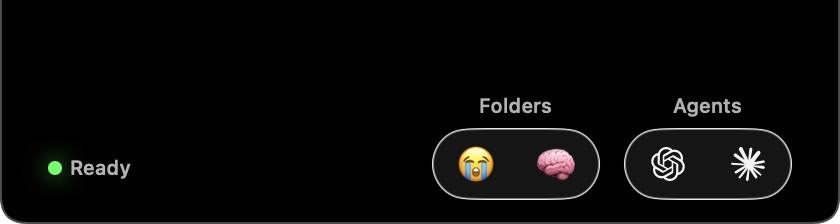
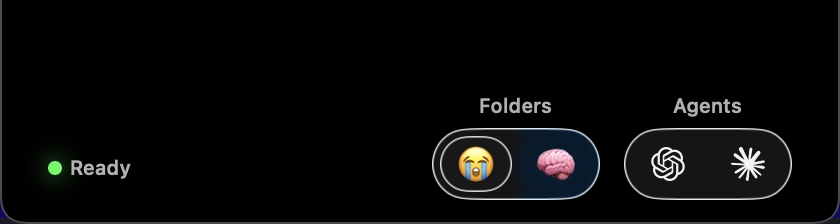
feat: refine glass capsule selection

diff --git a/GhostNotch/UI/IslandIndicatorView.swift b/GhostNotch/UI/IslandIndicatorView.swift
@@ -1,8 +1,12 @@
+import AppKit
 import SwiftUI
 
 struct IslandIndicatorView: View {
+    @Environment(\.accessibilityReduceMotion) private var reduceMotion
+    @Environment(\.accessibilityReduceTransparency) private var reduceTransparency
     @ObservedObject var sessionState: TerminalSessionState
     @ObservedObject var presetStore: AgentPresetStore
+    @Namespace private var directorySelectionNamespace
 
     let isHovering: Bool
     let selectedDirectoryPresetID: AgentLaunchDirectoryPreset.ID?
@@ -107,17 +111,7 @@ struct IslandIndicatorView: View {
                             .foregroundStyle(.secondary)
                             .frame(height: IslandMetrics.hoverControlLabelHeight)
 
-                        HStack(alignment: .center, spacing: 0) {
-                            ForEach(visibleDirectoryPresets) { preset in
-                                DirectoryPresetButton(
-                                    preset: preset,
-                                    isSelected: preset.id == selectedDirectoryPresetID
-                                ) {
-                                    onSelectDirectory(preset)
-                                }
-                            }
-                        }
-                        .notchCapsuleGroupStyle()
+                        directoryPresetControls
                     }
                 }
 
@@ -152,6 +146,75 @@ struct IslandIndicatorView: View {
                 .filter { $0.directoryExists() }
                 .prefix(AgentPresetStore.maximumDirectoryPresets)
         )
+    }
+
+    private var directoryPresetControls: some View {
+        ZStack {
+            if !reduceTransparency {
+                directorySelectionLayer(usesOpaqueGlass: false)
+                    .padding(IslandMetrics.notchCapsuleGroupInset)
+            }
+
+            HStack(alignment: .center, spacing: 0) {
+                ForEach(visibleDirectoryPresets) { preset in
+                    DirectoryPresetButton(preset: preset) {
+                        onSelectDirectory(preset)
+                    }
+                }
+            }
+            .background {
+                if reduceTransparency {
+                    directorySelectionLayer(usesOpaqueGlass: true)
+                }
+            }
+            .notchCapsuleGroupStyle()
+        }
+        .animation(directorySelectionAnimation, value: selectedDirectoryPresetID)
+    }
+
+    private func directorySelectionLayer(usesOpaqueGlass: Bool) -> some View {
+        HStack(spacing: 0) {
+            ForEach(visibleDirectoryPresets) { preset in
+                ZStack {
+                    if preset.id == selectedDirectoryPresetID {
+                        directorySelectionCapsule(usesOpaqueGlass: usesOpaqueGlass)
+                            .matchedGeometryEffect(
+                                id: usesOpaqueGlass ? "opaque-directory-selection" : "directory-selection",
+                                in: directorySelectionNamespace
+                            )
+                            .transition(directorySelectionTransition)
+                    }
+                }
+                .frame(
+                    width: IslandMetrics.notchControlWidth,
+                    height: IslandMetrics.notchControlHeight
+                )
+            }
+        }
+        .allowsHitTesting(false)
+    }
+
+    @ViewBuilder
+    private func directorySelectionCapsule(usesOpaqueGlass: Bool) -> some View {
+        if usesOpaqueGlass {
+            Color.clear
+                .glassEffect(
+                    .regular.tint(Color(nsColor: .systemBlue)),
+                    in: Capsule()
+                )
+                .clipShape(Capsule())
+        } else {
+            Capsule()
+                .fill(Color(nsColor: .systemBlue))
+        }
+    }
+
+    private var directorySelectionAnimation: Animation? {
+        reduceMotion ? nil : .snappy(duration: 0.18, extraBounce: 0.02)
+    }
+
+    private var directorySelectionTransition: AnyTransition {
+        .opacity.animation(.easeOut(duration: reduceMotion ? 0.08 : 0.12))
     }
 
     private var hoverStatus: some View {
@@ -190,7 +253,6 @@ struct IslandIndicatorView: View {
 
 private struct DirectoryPresetButton: View {
     let preset: AgentLaunchDirectoryPreset
-    let isSelected: Bool
     let action: () -> Void
 
     var body: some View {
@@ -204,7 +266,7 @@ private struct DirectoryPresetButton: View {
                 .contentShape(Capsule())
         }
         .frame(width: IslandMetrics.notchControlWidth, height: IslandMetrics.notchControlHeight)
-        .notchControlStyle(isSelected: isSelected)
+        .notchControlStyle()
         .accessibilityLabel("Use \(preset.displayLabel) folder")
         .help("\(preset.displayLabel) - \(preset.path)")
     }

diff --git a/GhostNotch/UI/IslandRootView.swift b/GhostNotch/UI/IslandRootView.swift
@@ -56,32 +56,32 @@ struct IslandRootView: View {
 }
 
 private struct NotchControlStyle: ViewModifier {
+    @Environment(\.accessibilityReduceMotion) private var reduceMotion
     @State private var isHovering = false
 
-    let isSelected: Bool
-
     func body(content: Content) -> some View {
-        Group {
-            if isSelected {
-                content
-                    .buttonStyle(.glassProminent)
-                    .buttonBorderShape(.capsule)
-            } else if isHovering {
-                content
-                    .buttonStyle(.glass)
-                    .buttonBorderShape(.capsule)
-            } else {
-                content
-                    .buttonStyle(.plain)
+        content
+            .buttonStyle(.plain)
+            .background {
+                if isHovering {
+                    Color.clear
+                        .frame(
+                            width: IslandMetrics.notchControlWidth - 4,
+                            height: IslandMetrics.notchControlHeight - 4
+                        )
+                        .glassEffect(.regular.interactive(), in: Capsule())
+                        .glassEffectTransition(.materialize)
+                        .clipShape(Capsule())
+                }
             }
-        }
-        .onHover { isHovering = $0 }
+            .animation(reduceMotion ? nil : .snappy(duration: 0.12), value: isHovering)
+            .onHover { isHovering = $0 }
     }
 }
 
 extension View {
-    func notchControlStyle(isSelected: Bool = false) -> some View {
-        modifier(NotchControlStyle(isSelected: isSelected))
+    func notchControlStyle() -> some View {
+        modifier(NotchControlStyle())
     }
 
     func notchCapsuleGroupStyle() -> some View {

diff --git a/docs/ui-polish-research.md b/docs/ui-polish-research.md
@@ -143,7 +143,8 @@ assets, layout measurements, or product-specific animation choreography.
   remain below the physical notch without crowding.
 - Use 40-by-32-point quick-launch targets with a two-point outer capsule inset;
   they exceed Apple's 20-point macOS minimum and read as compact pills rather
-  than rounded squares.
+  than rounded squares. Keep native hover and press glass centered at 36 by 28
+  points inside those targets so its material never spills beyond the group.
 - Normalize internal gaps around a small set of local values instead of adding
   a global token system. Use zero points between actions inside a capsule, 4
   points from each caption to its capsule, 8 points between the status and
@@ -164,12 +165,17 @@ assets, layout measurements, or product-specific animation choreography.
   mark or outline without relying on glow.
 - Give folders, agents, and expanded actions one persistent native
   `glassEffect(.regular.interactive(), in: Capsule())` surface per group. Keep
-  unselected inner actions plain at rest, materialize the native `.glass`
-  subcapsule on pointer hover, and use `.glassProminent` for the selected
-  directory preset. Do not apply glass to the black shell, terminal canvas,
-  status mark, or Settings form.
+  inner actions plain at rest and materialize a centered 36-by-28-point native
+  `glassEffect` subcapsule on pointer hover. Render the selected folder as one
+  40-by-32-point `NSColor.systemBlue` content layer beneath the outer folder
+  glass so native refraction can reach sibling folder segments without
+  reaching the separate Agents capsule. Move it with a 0.18-second `snappy`
+  spring and fade it in or out over 0.12 seconds. Reduce Motion removes the
+  translation and uses a 0.08-second fade; Reduce Transparency replaces the
+  hidden backing with an exact-size native tinted glass segment. Do not apply
+  glass to the black shell, terminal canvas, status mark, or Settings form.
 - Let macOS own glass focus, hover, press, Reduce Transparency, and Increase
-  Contrast rendering. Add no custom control fill, stroke, blur, or material.
+  Contrast rendering. Add no imitation glass fill, stroke, blur, or material.
   Activate the hover panel on pointer entry so macOS renders genuine focused
   glass, then restore the previously active app on pointer exit. Expansion keeps
   GhostNotch focused.

diff --git a/docs/ui-polish-sprint-tracking.md b/docs/ui-polish-sprint-tracking.md
@@ -113,15 +113,19 @@ Depends on: Track 1
 - [x] Use 40-by-32-point quick-launch segments with a two-point outer capsule
   inset. Keep 8 points from status to controls, 12 points between folder and
   agent groups, and the existing 24-point horizontal/12-point bottom padding.
+  Keep every native hover/press subcapsule centered at 36 by 28 points so it
+  remains inside the outer capsule while preserving the full click target.
 - [x] Add `Folders` and `Agents` secondary `caption2` labels four points above
   two separate native outer glass capsules. Hide the folder label and capsule
   when there are no valid presets.
 - [x] Put expanded restart/collapse actions in one native outer capsule and
   inset it from the screen top. Keep Settings on native grouped-Form controls.
 - [x] Add clear hover, pressed, selected, disabled, and keyboard-focus states
-  without changing actions or selection behavior. Use native inner glass only
-  for hover/press, prominent glass only for selection, and one persistent
-  native glass outer capsule; add no custom control surface or outline.
+  without changing actions or selection behavior. Use exact-size native inner
+  glass only for hover/press. Put the selected folder's 40-by-32-point system
+  blue backing beneath the persistent outer glass so native refraction reaches
+  only sibling folder segments; use an exact-size native tinted segment when
+  Reduce Transparency is enabled. Add no imitation glass surface or outline.
 - [x] Keep the opaque black shell and apply semantic label/symbol colors.
 - [x] Let native Liquid Glass respond to Reduce Transparency and Increase
   Contrast. Use semantic foregrounds and native focus/hover/press treatments;
@@ -134,8 +138,10 @@ Depends on: Track 1
   [expanded actions](images/ui-polish/track2-expanded-standard.jpg),
   [Reduce Transparency](images/ui-polish/track2-hover-reduce-transparency.jpg),
   and [Increase Contrast](images/ui-polish/track2-hover-increase-contrast.jpg)
-  — 2026-07-11, Mac16,7. Accessibility inspection exposed every preserved
-  label/help string.
+  — refreshed 2026-07-11, Mac16,7. The hover captures show the second folder
+  selected and the first hovered; the expanded capture shows the contained
+  restart hover. Accessibility inspection exposed every preserved label/help
+  string.
 
 Exit gate:
 
